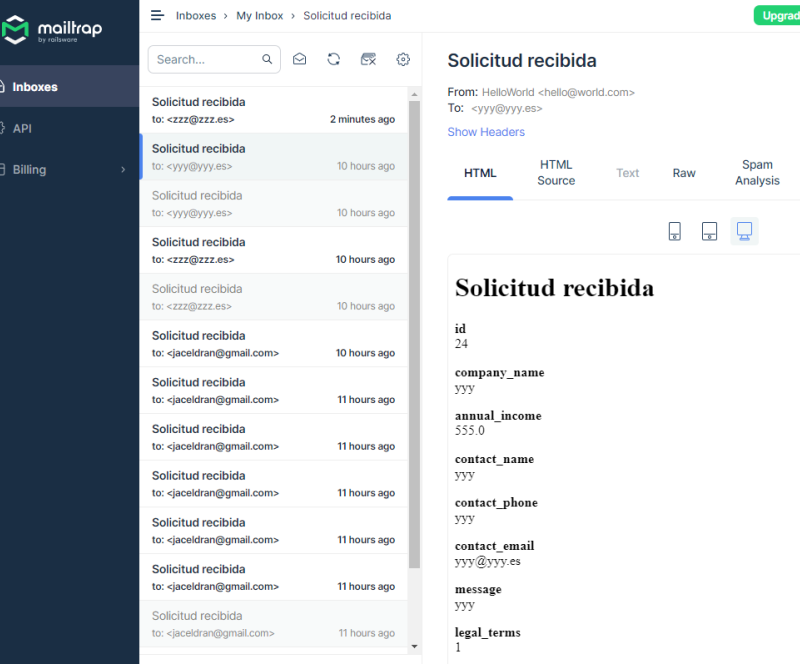
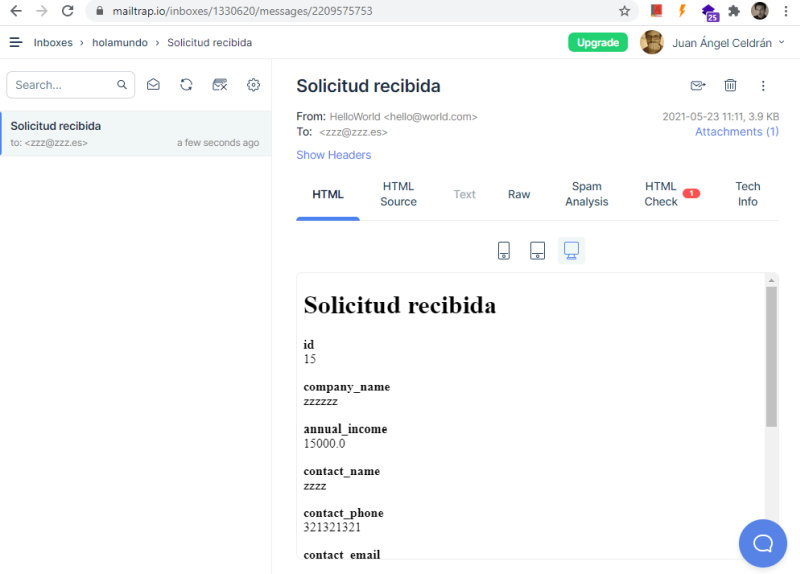
Changed README

diff --git a/database/factories/InfoRequestFactory.php b/database/factories/InfoRequestFactory.php
@@ -28,7 +28,7 @@ class InfoRequestFactory extends Factory
             'contact_phone' => $this->faker->phoneNumber(),
             'contact_email' => $this->faker->email(),
             'message' => $this->faker->text(),
-            'legal_terms' => $this->faker->numberBetween(0, 1),
+            'legal_terms' => 1,
             'is_managed' => $this->faker->numberBetween(0, 1),
         ];
     }
